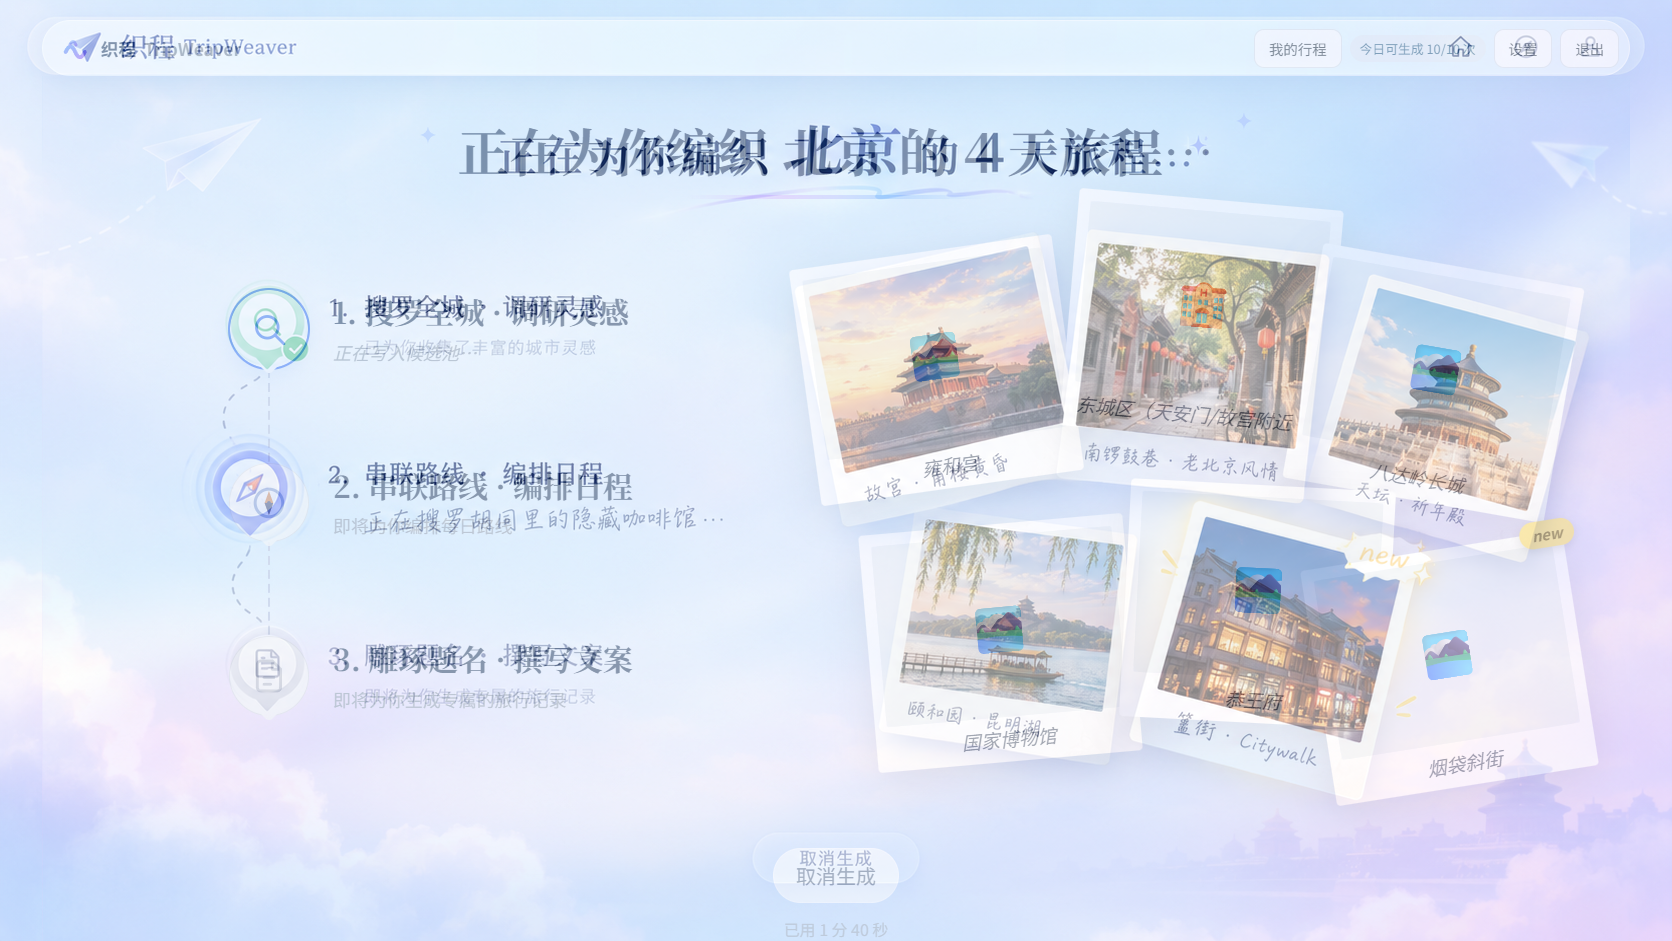
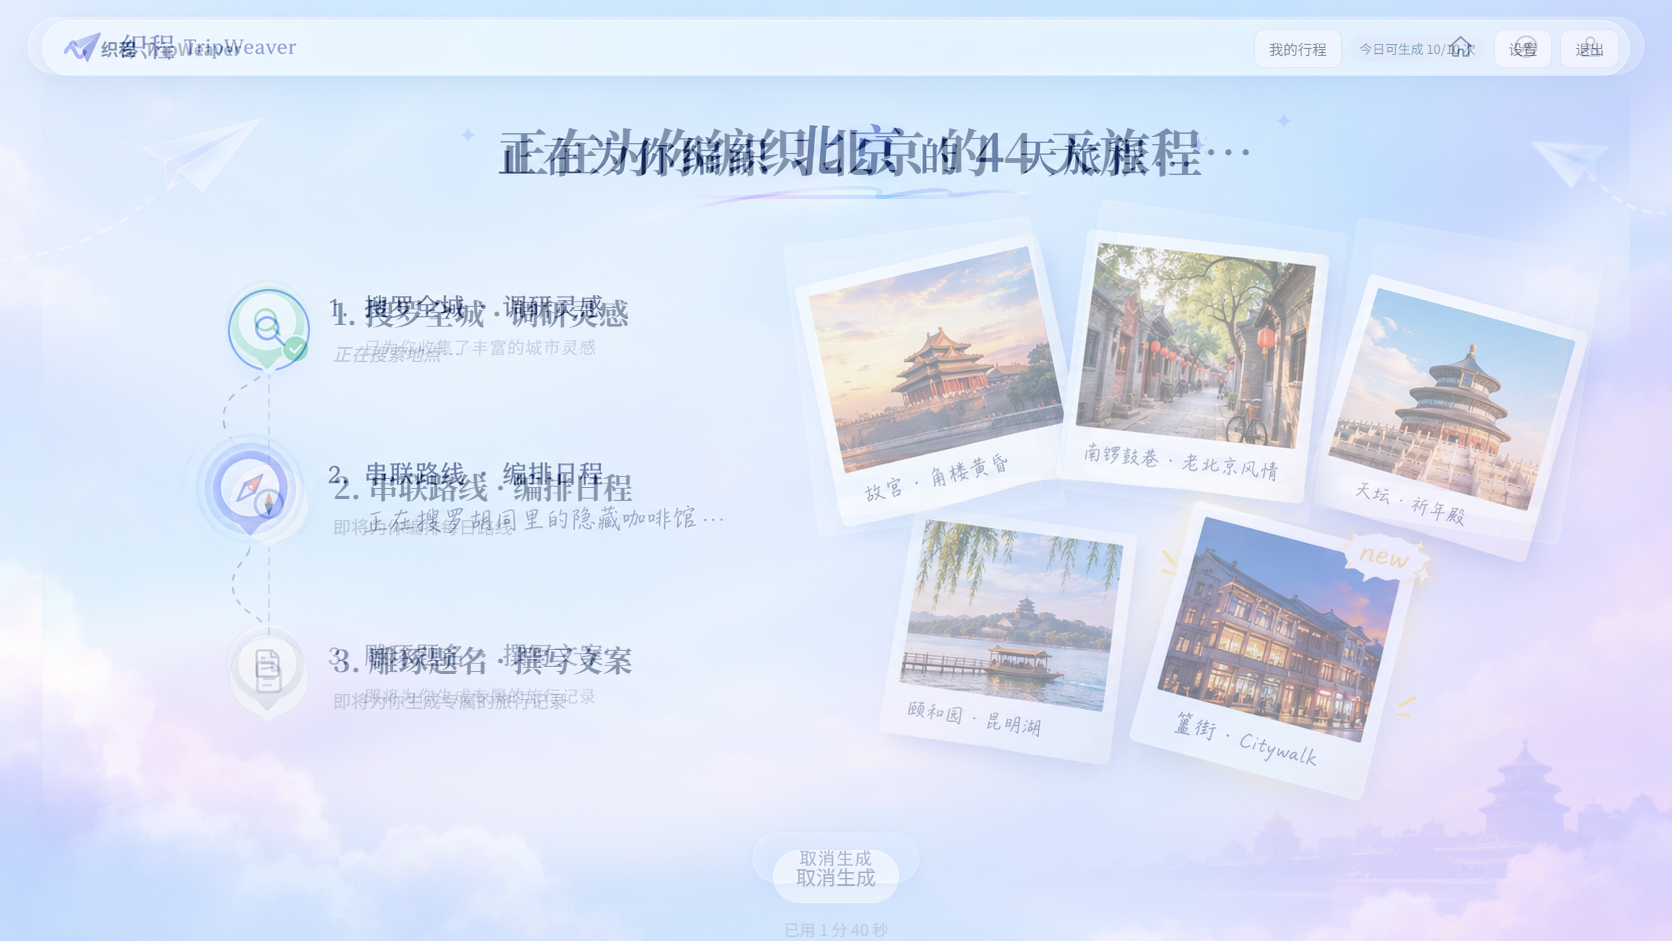
feat(web): 生成中页面拍立得与标题按设计稿二次校准
- 照片比例修正：设计稿是略竖的 1:1.05 拍立得，原来写成了 4:3，导致卡片整体偏矮 60px
- 卡片尺寸与白边改为设计稿实测值：宽 250、padding 20/20/16、caption 放大
- FAN 位姿按 UI 稿实测卡框重算（卡4 原来偏下 6%），倾斜角同步微调
- 标题块按设计稿的 36px 右偏还原（设计稿标题并不在页面正中）
- crop.mjs 支持指定输入图，便于设计稿 / 实现同区域并排裁剪
- 清掉失效的改动前对照图，并把实测数值与剩余差异写进研究文档

diff --git a/apps/web/src/styles/global.css b/apps/web/src/styles/global.css
@@ -659,13 +659,15 @@ a { color: var(--color-primary); text-decoration: none; }
 .gen-page-root .gen-title {
   display: flex;
   align-items: center;
-  margin: 0;
+  margin: 0 0 0 calc(80 * var(--ui));
   font-family: var(--gen-serif);
   font-size: calc(52 * var(--ui));
   font-weight: 700;
   line-height: 1.12;
   color: #1a365d;
 }
+/* 设计稿的标题块整体比页面中心偏右 40px（实测文本中心 875 vs 页面中心 836，含两侧星形也是如此），
+   上面的 margin-left 把它推过去；flex 居中会把 margin 计入，所以写 80 得到 40 的位移。 */
 /* 标题装饰：四角星光点（设计稿为星形光点，不用 emoji） */
 .gen-title .gen-star {
   display: inline-block;
@@ -820,14 +822,14 @@ a { color: var(--color-primary); text-decoration: none; }
   50% { opacity: 1; }
 }
 
-/* 拍立得卡片（设计稿：卡宽 266px） */
+/* 拍立得卡片（设计稿：卡宽 250、略竖的照片、上下白边厚） */
 .gen-polaroid {
   position: absolute;
-  width: calc(266 * var(--ui));
+  width: calc(250 * var(--ui));
   margin: 0;
   background: #fff;
-  border-radius: calc(4 * var(--ui));
-  padding: calc(12 * var(--ui)) calc(12 * var(--ui)) calc(6 * var(--ui));
+  border-radius: calc(6 * var(--ui));
+  padding: calc(20 * var(--ui)) calc(20 * var(--ui)) calc(16 * var(--ui));
   box-shadow: 0 calc(10 * var(--ui)) calc(40 * var(--ui)) rgba(0, 0, 0, 0.12);
   animation: gen-polaroid-in 0.5s cubic-bezier(0.34, 1.56, 0.64, 1);
 }
@@ -835,12 +837,13 @@ a { color: var(--color-primary); text-decoration: none; }
   0% { opacity: 0; translate: 0 -18px; scale: 0.85; }
   100% { opacity: 1; translate: 0 0; scale: 1; }
 }
-.gen-polaroid-photo { aspect-ratio: 4 / 3; overflow: hidden; border-radius: calc(2 * var(--ui)); background: #eef2f7; }
+/* 设计稿的拍立得是略竖的（210×220），不是 4:3 横版 */
+.gen-polaroid-photo { aspect-ratio: 1 / 1.05; overflow: hidden; border-radius: calc(2 * var(--ui)); background: #eef2f7; }
 .gen-polaroid-photo .poi-cover { width: 100%; height: 100%; object-fit: cover; display: block; }
 .gen-polaroid-photo .poi-cover-fallback { display: flex; align-items: center; justify-content: center; font-size: calc(46 * var(--ui)); }
 .gen-polaroid-caption {
-  margin: calc(8 * var(--ui)) 0 calc(4 * var(--ui));
-  font-size: calc(19 * var(--ui));
+  margin: calc(18 * var(--ui)) 0 0;
+  font-size: calc(23 * var(--ui));
   font-style: italic;
   color: #4a5568;
   text-align: center;
@@ -895,7 +898,7 @@ a { color: var(--color-primary); text-decoration: none; }
   border: 1px solid rgba(255, 255, 255, 0.5);
   border-radius: 999px;
   background: rgba(255, 255, 255, 0.72);
-  padding: calc(12 * var(--ui)) calc(22 * var(--ui));
+  padding: calc(11 * var(--ui)) calc(22 * var(--ui));
   font-size: calc(20 * var(--ui));
   color: #5a6c86;
   backdrop-filter: blur(10px);

diff --git a/apps/web/src/components/GenerationRunPanel.tsx b/apps/web/src/components/GenerationRunPanel.tsx
@@ -98,14 +98,15 @@ function SparkIcon({ className }: { className: string }) {
   );
 }
 
-/** 拍立得散落位姿（最多展示最近 6 张候选；确定性排布，避免重渲染抖动） */
+/** 拍立得散落位姿（最多展示最近 6 张候选；确定性排布，避免重渲染抖动）
+ *  前 5 个位姿按 UI 稿（1672×941）实测卡框左上角换算成百分比；第 6 个是 UI 稿没有的右下补位。 */
 const FAN = [
-  { left: '2%', top: '8%', rotate: -8 },
-  { left: '35%', top: '0%', rotate: 5 },
-  { left: '64%', top: '10%', rotate: 10 },
-  { left: '10%', top: '50%', rotate: -5 },
-  { left: '42%', top: '44%', rotate: 3 },
-  { left: '66%', top: '54%', rotate: -9 },
+  { left: '1.5%', top: '4.8%', rotate: -7 },
+  { left: '36.4%', top: '2.5%', rotate: 8 },
+  { left: '68%', top: '5.5%', rotate: 9 },
+  { left: '10.8%', top: '44%', rotate: -5 },
+  { left: '47.6%', top: '48%', rotate: 6 },
+  { left: '70%', top: '56%', rotate: -9 },
 ];
 
 type MilestoneState = 'pending' | 'active' | 'done';

diff --git a/.trellis/tasks/09-27-gen-page-visual-align/research/visual-diff.md b/.trellis/tasks/09-27-gen-page-visual-align/research/visual-diff.md
@@ -133,21 +133,33 @@
 
 DOM 实测（视口已固定为设计稿的 1672×941，`Emulation.setDeviceMetricsOverride`）：
 
-| 元素 | 实测 | 设计稿 | 差 |
+| 要素 | 实测 | 设计稿 | 差 |
 | --- | --- | --- | --- |
-| 里程碑 badge 中心 y | 329 / 503 / 676 | 327 / 501 / 675 | 2px |
+| 里程碑 badge 中心 y | 330 / 504 / 677 | 327 / 501 / 675 | 3px |
 | badge 直径 / 中心 x | 80 / 269 | 80 / 269 | 0 |
-| 标题盒中心 y / 文本宽 | 150 / 756 | 150 / 753 | 0 / 3px |
-| 取消按钮 x / 宽 / 高 | 773 / 126 / 55 | 774 / 124 / 52 | 1~3px |
-| 拍立得卡宽 | 265 | 266 | 1px |
+| 标题盒中心 x / y | 876 / 150 | 875.5 / 150 | 0.5px |
+| 拍立得卡宽 × 高 | 249 × 293 | 250 × 300 | 1 / 7px |
+| 取消按钮 x / 宽 / 高 | 773 / 126 / 53 | 774 / 124 / 52 | 1~2px |
+
+### 第二轮再校准（09-27 晚）
+
+叠图发现并修掉的：
+
+1. **照片比例错了**：设计稿是略竖的拍立得（210×220 ≈ 1:1.05），实现原来是 4:3 横版 —— 这是卡片整体偏矮 60px 的主因。已改。
+2. **卡片尺寸/白边**：宽 266 → 250，padding 12/12/6 → 20/20/16，caption 放大。
+3. **卡片位姿**：`FAN` 前 5 个位姿改成按 UI 稿实测卡框换算的百分比（卡4 原来偏下 6%）。
+4. **标题水平偏移**：设计稿的标题块整体比页面中心**偏右 36~40px**（实测文本中心 875.5 vs 页面中心 836，含两侧星形也是如此），已用 `margin-left: calc(80 * var(--ui))` 还原。
 
 已落地：设计像素标尺 `--ui`、AppLayout 坐标补偿（顶栏 76px + `.app-main` 2.5%）、衬线字体（标题与里程碑标题用 `Noto Serif SC Variable`）、图钉形状 badge、右下角绿色勾徽章、彩色指南针、长虚线路径、A4 背景装饰已删。
 
 ### 无法靠 CSS 消除的剩余差异
 
-1. **衬线字体不是设计稿的原字体**：同一段文字的总宽略有差异，里程碑第 2/3 项的文字右端错开 10~20px（左端对齐、字号对齐）。
+1. **衬线字体的字身宽度不同**：位置、字号、总宽都对上了（文本中心 876 vs 875.5，总宽 756 vs 753），
+   但叠图上从「北京」开始累积错位到「旅程」差 30px+ —— 设计稿字体的字距分布与思源宋体不同。
+   同字号缩放到总宽相等时中间会对不上，只有拿到设计稿原字体文件才能 1:1。
 2. **卡片数量**：设计稿画了 5 张，实现最多铺 6 张（`FAN` 有 6 个位姿），第 6 张在设计稿里没有对应位置。
-3. 拍立得照片内容本身取决于图片源（Pexels 接入后已有真实照片，见 09-27-pexels-cover）。
+3. 拍立得照片内容本身取决于图片源（高德 POI / Pexels 接入后已有真实照片）。
+4. badge 的 3px 与按钮的 1~2px 属亚像素级累积误差，不再微调。
 
 ### 本次建的重测工具（都在本目录）
 
